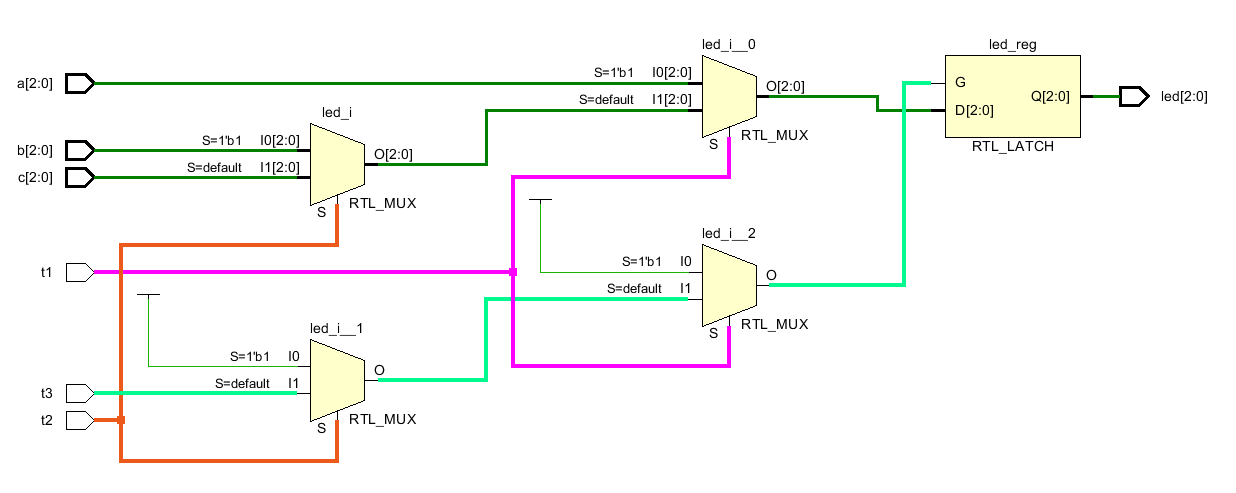
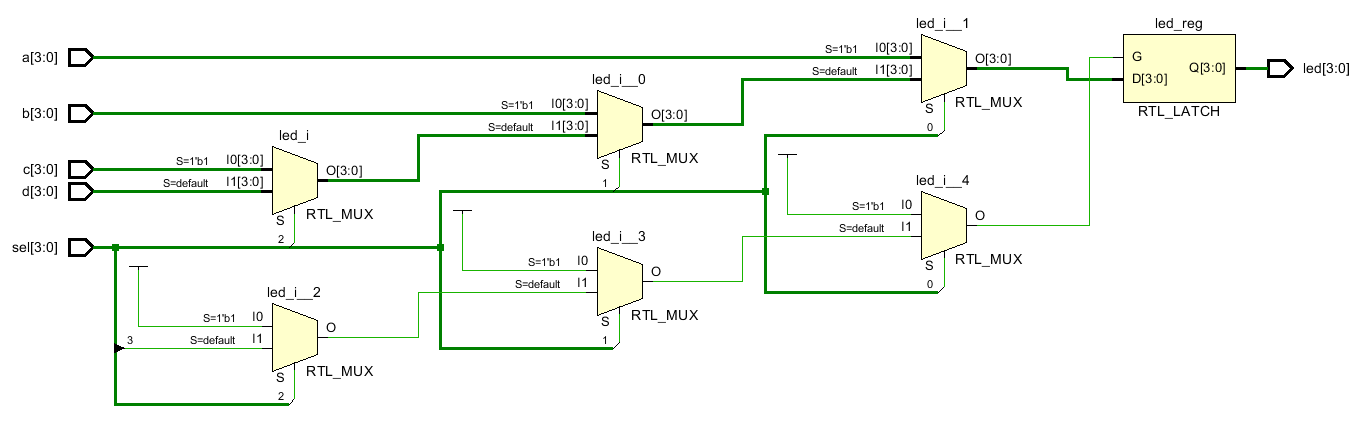
sync

Changed region(s): [[0.0, 0.0294, 1.0, 0.9412]]

diff --git a/fpga/synthesize/rtl.md b/fpga/synthesize/rtl.md
@@ -1,34 +1,31 @@
 # 组合逻辑
-## 普通组合逻辑电路
+## 简单组合逻辑电路
+由简单的`and, or, nor, add, sub`组成的电路
 ### 代码
 ```verilog
 module test
 (
-    input   wire                a,
-    input   wire                b,
-    input   wire                c,
-    input   wire                d,
-    input   wire [03:00]        sel,
+    input   wire [03:00]       a,
+    input   wire [03:00]       b,
+    input   wire [03:00]       c,
+    input   wire [03:00]       d,
+    input   wire [03:00]       e,
 
-    output  wire                led
+    output  wire [03:00]       led
 );
 
-assign                      led = &sel[03:00] & a & b & c &d;
+assign                      led = ~(a + b - c & d | e);
 endmodule
 ```
 ### RTL视图
-![1-1](https://github.com/kdurant/note/blob/master/fpga/synthesize/img/1-1.png?raw=true)
+![1-1a](https://github.com/kdurant/note/blob/master/fpga/synthesize/img/1-1a.png?raw=true)
+![1-1b](https://github.com/kdurant/note/blob/master/fpga/synthesize/img/1-1b.png?raw=true)
 
 ### 总结
 1.	没有括号改变优先级的逻辑操作，是延迟连很长的组合逻辑电路，会影响时序性能
 2.	程序语句中最先面的输入，数据路径最长；最后面的输入，数据路径最短
 3.	程序语句从左到右，每两个输入公用一个组合逻辑节点
 4.	如果有大于等于4个输入进行逻辑操作，使用括号可以减少关键路径的节点
-例如：
-```verilog
-assign                      led = &sel[03:00] & (a & b) & (c & d);
-```
-![1-2](https://github.com/kdurant/note/blob/master/fpga/synthesize/img/1-2.png?raw=true)
 
 ## 组合逻辑环
 1. 必须是组合逻辑
@@ -36,8 +33,6 @@ assign                      led = &sel[03:00] & (a & b) & (c & d);
 必须同时满足上面两个条件才可能出现组合逻辑环，在时序电路里永远不可能出现这种电路的
 ### 代码
 ```verilog
-`timescale  1 ns/1 ps
-
 module test
 (
     input   wire                a,
@@ -49,9 +44,16 @@ assign                  c  = a & b & c;
 endmodule
 ```
 ### RTL视图
-![1-3](https://github.com/kdurant/note/blob/master/fpga/synthesize/img/1-3.png?raw=true)
+![1-3a](https://github.com/kdurant/note/blob/master/fpga/synthesize/img/1-3a.png?raw=true)
+
+![1-3b](https://github.com/kdurant/note/blob/master/fpga/synthesize/img/1-3b.png?raw=true)
+
+quartus编译后出现了如下提示，vivado没有发现类似提示
+> Warning (10755): Verilog HDL warning at test.v(8): assignments to c create a combinational loop
+
 
 ## if-else组合逻辑电路
+当条件不完备的时候，无论是`if`还是`case`语句，都会生成锁存器，在设计中应该尽量避免
 ### 条件完备
 #### 代码
 ```verilog
@@ -74,18 +76,19 @@ end
 endmodule
 ```
 #### RTL视图
-1. `if`里的条件综合成简单逻辑电路
-2. `if-else`语句必然综合出一个Mux
-3. Mux的位宽和输入数据宽度一致
+1. `if`里的条件 <font color=red size=5>对应</font> 简单逻辑电路
+2. `if-else`语句 <font color=red size=5>对应</font> Mux
+3. Mux的个数和输入数据宽度一致
 ![1-4a](https://github.com/kdurant/note/blob/master/fpga/synthesize/img/1-4a.png?raw=true)
 
+![1-4b](https://github.com/kdurant/note/blob/master/fpga/synthesize/img/1-4b.png?raw=true)
 ### 条件不完备
 #### 代码
 ```verilog
 module test
 (
     input   wire [03:00]        a,
-    input   wire                e,
+    input   wire [03:00]        e,
 
     output  reg  [03:00]        led
 );
@@ -99,25 +102,22 @@ endmodule
 ```
 #### RTL视图
 ![1-5a](https://github.com/kdurant/note/blob/master/fpga/synthesize/img/1-5a.png?raw=true)
+![1-5b](https://github.com/kdurant/note/blob/master/fpga/synthesize/img/1-5b.png?raw=true)
 
 ## if-elseif-else组合逻辑电路
 ### 条件完备
 #### 代码
 ```verilog
-`timescale  1 ns/1 ps
-
 module test
 (
-    input   wire                clk,
-
-    input   wire                a,
-    input   wire                b,
-    input   wire                c,
-    input   wire                d,
-    input   wire                e,
+    input   wire [03:00]        a,
+    input   wire [03:00]        b,
+    input   wire [03:00]        c,
+    input   wire [03:00]        d,
+    input   wire [03:00]        e,
     input   wire [03:00]        sel,
 
-    output  reg                 led
+    output  reg  [03:00]        led
 );
 
 always @(*)
@@ -137,37 +137,40 @@ endmodule
 ```
 #### RTL视图
 1. 选择器的级数和`else( if)`的个数相等
-![1-6](https://github.com/kdurant/note/blob/master/fpga/synthesize/img/1-6.png?raw=true)
+2. 最早出现条件的路径延时最少
+![1-6a](https://github.com/kdurant/note/blob/master/fpga/synthesize/img/1-6a.png?raw=true)
+![1-6b](https://github.com/kdurant/note/blob/master/fpga/synthesize/img/1-6b.png?raw=true)
 
 ### 条件不完备
 #### 代码
 ```verilog
 module test
 (
-    input   wire                a,
-    input   wire                b,
-    input   wire                c,
+    input   wire [03:00]        a,
+    input   wire [03:00]        b,
+    input   wire [03:00]        c,
+    input   wire [03:00]        d,
+    input   wire [03:00]        sel,
 
-    input   wire                t1,
-    input   wire                t2,
-    input   wire                t3,
-
-    output  reg                 led
+    output  reg  [03:00]        led
 );
 
 always @(*)
 begin
-    if(t1)
+    if(sel[0])
         led <= a;
-    else if(t2)
+    else if(sel[1])
         led <= b;
-    else if(t3)
+    else if(sel[2])
         led <= c;
+    else if(sel[3])
+        led <= d;
 end
 endmodule
 ```
 #### RTL视图
 1. 选择器的级数和`else if`的个数相等
+![1-7a](https://github.com/kdurant/note/blob/master/fpga/synthesize/img/1-7a.png?raw=true)
 ![1-7b](https://github.com/kdurant/note/blob/master/fpga/synthesize/img/1-7b.png?raw=true)
 
 ## case组合逻辑电路
@@ -268,7 +271,7 @@ endmodule
 3. 数据会连接到每个Mux的数据端口(实际逻辑决定？)
 
 # 时序逻辑电路
-根据设计风格要求，每个`always @ (posedge clk)`语句块只描述一个信号
+时序逻辑电路 = 组合逻辑电路 + 寄存器，所以对于条件完备的时序电路，其RTL结构相当于组合逻辑电路的后面跟了一级寄存器。
 
 ## if-else
 ### 条件完备
